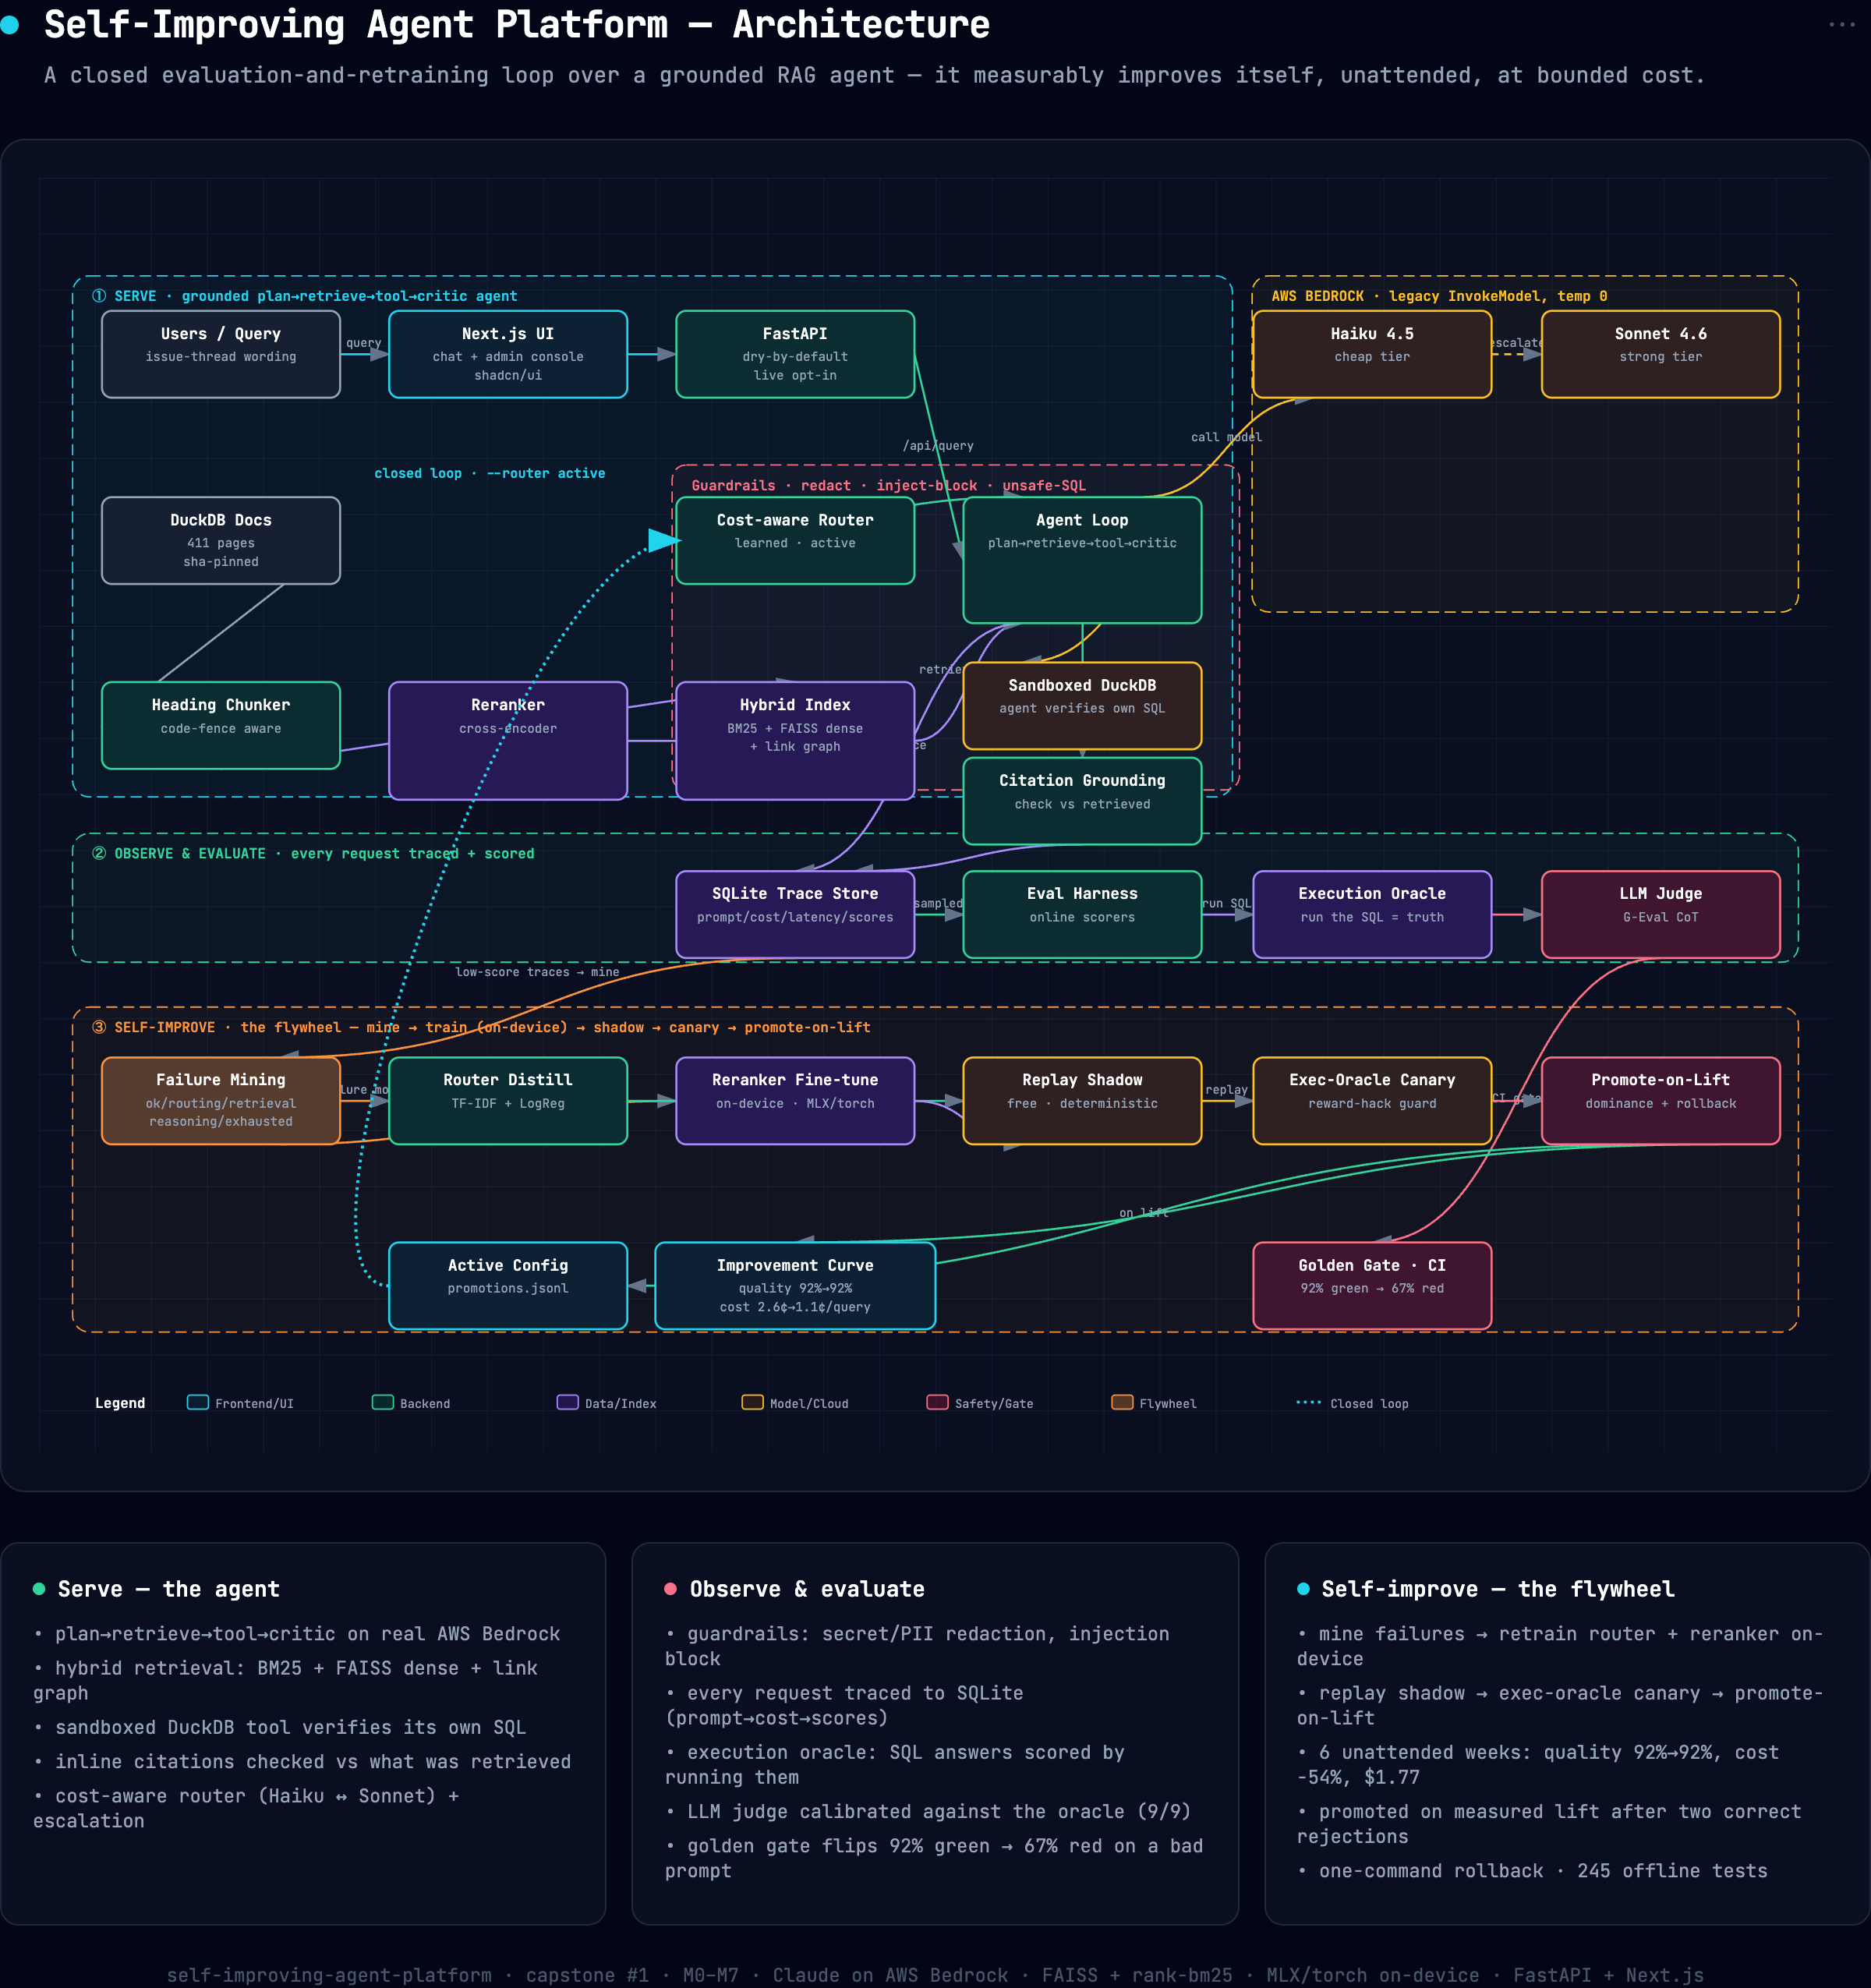
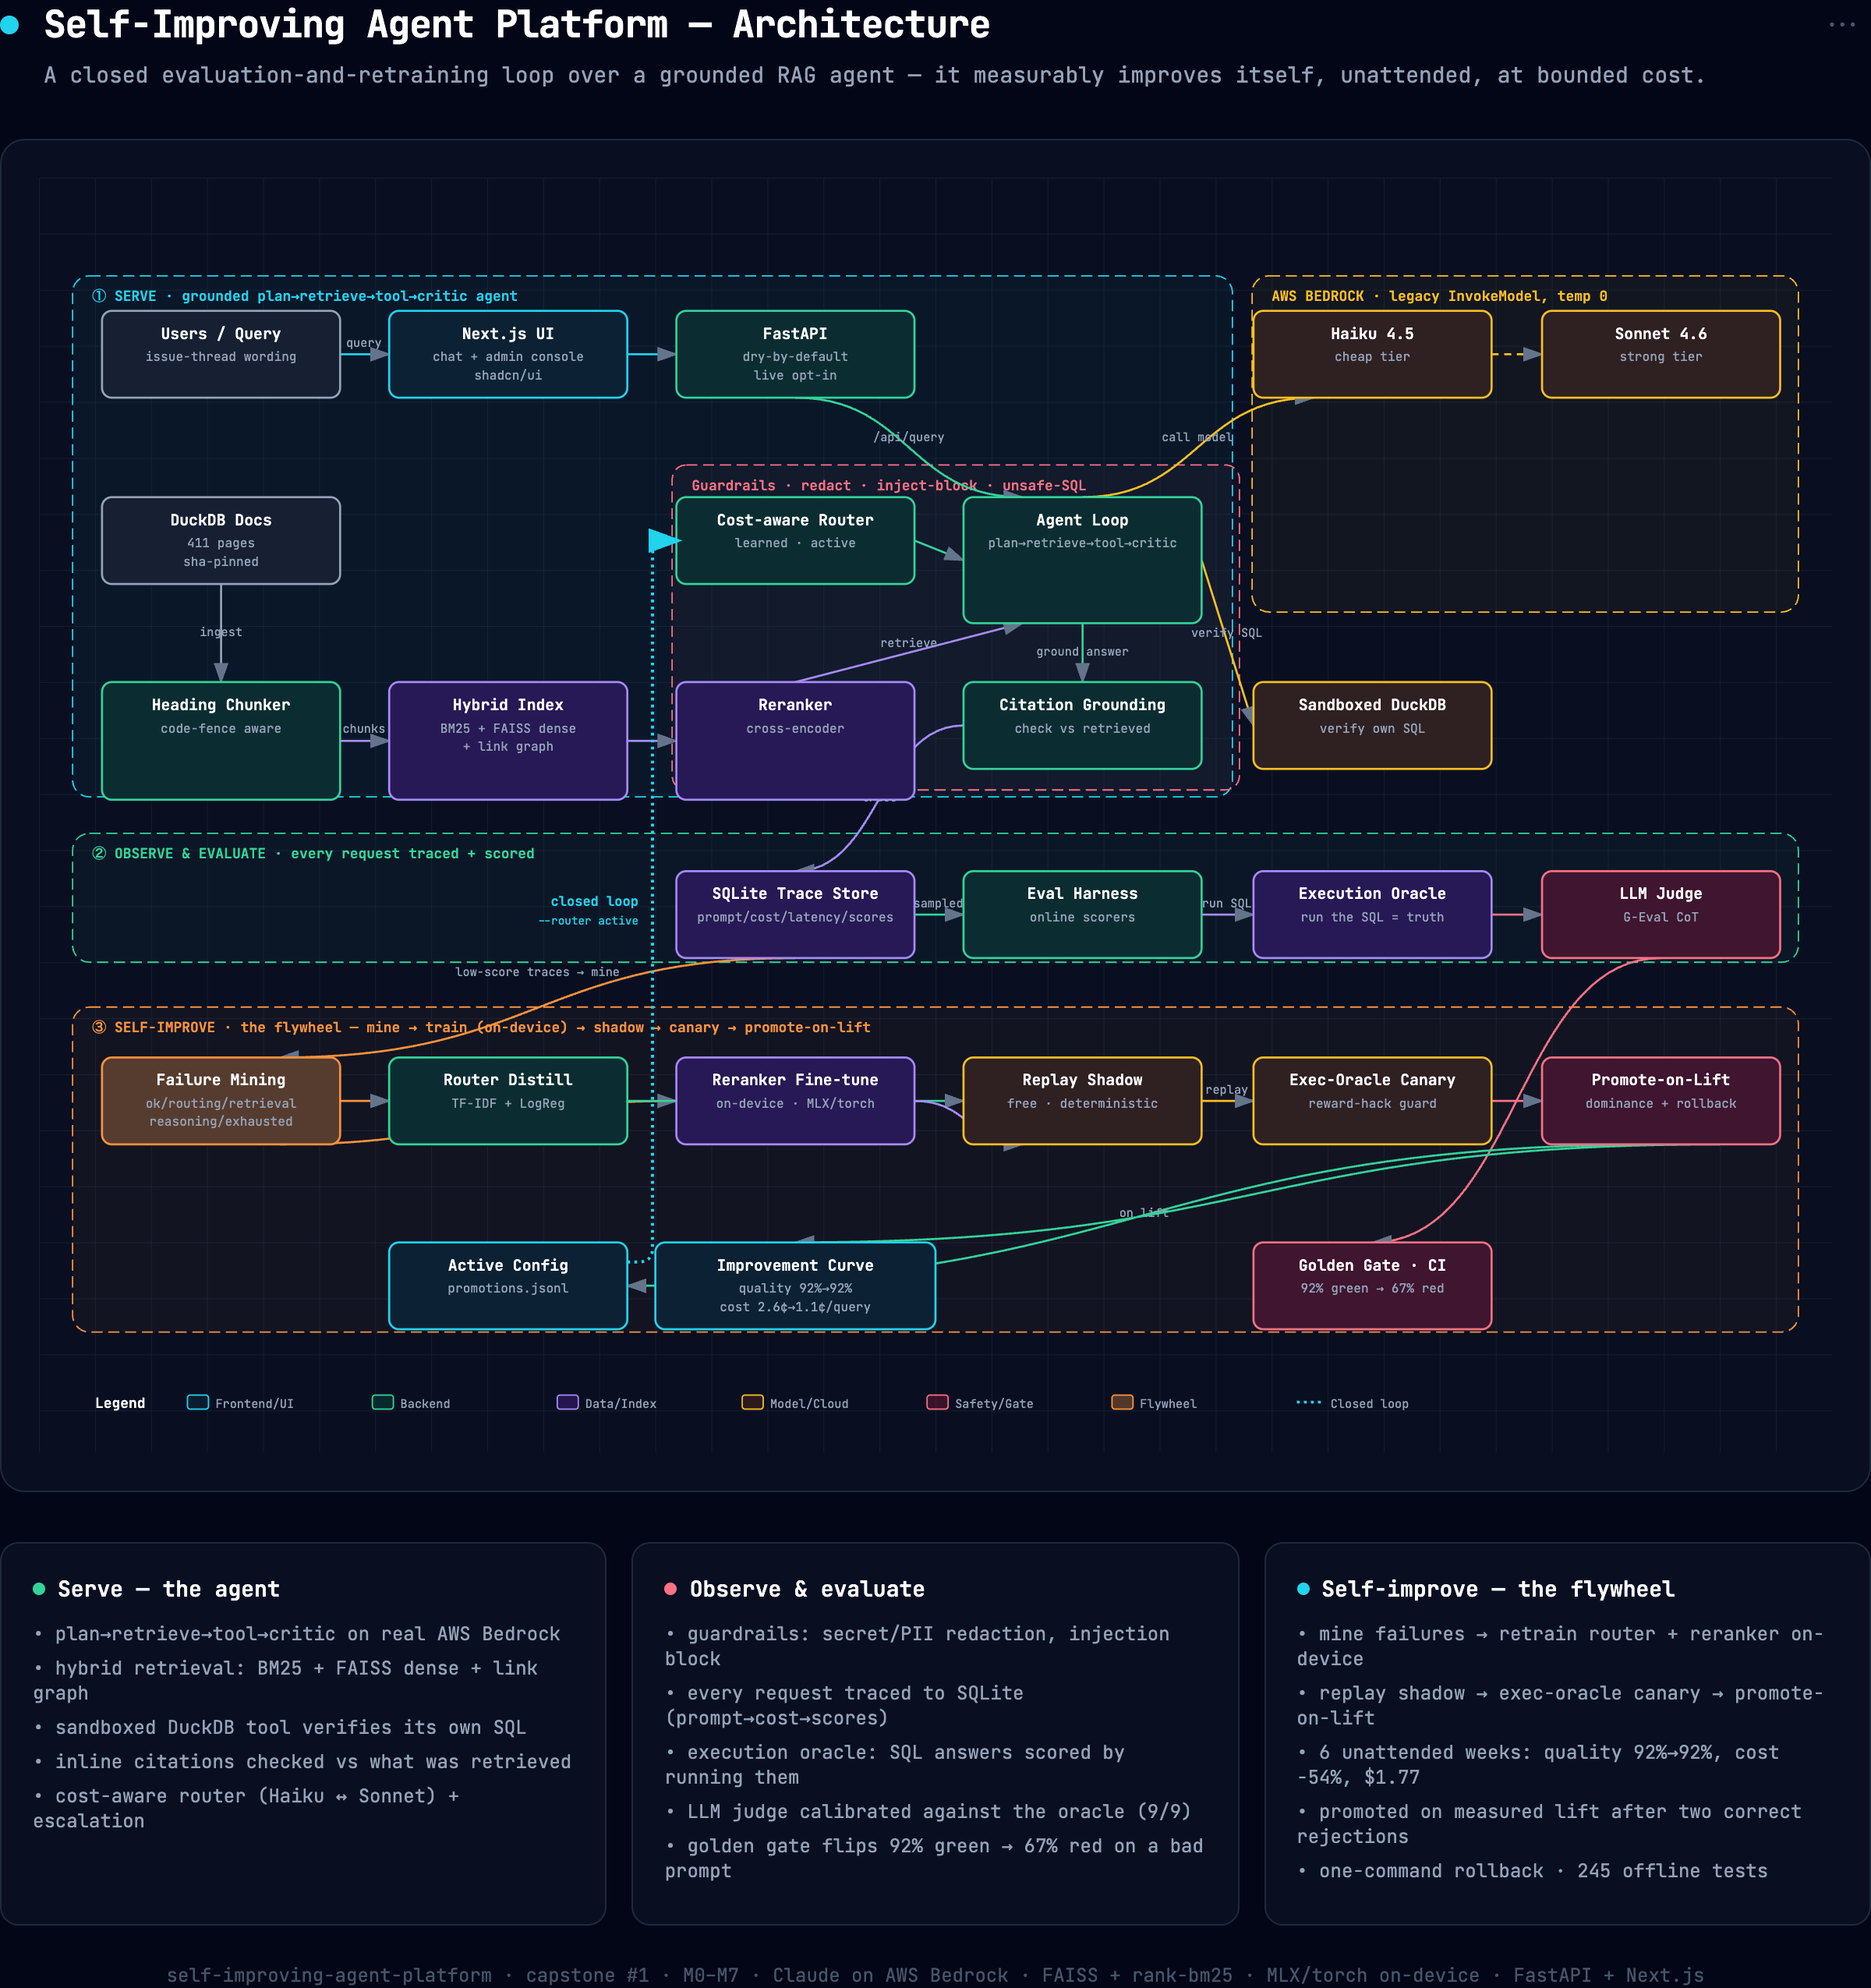
docs: fix architecture diagram layout (spacing + arrows behind boxes)
- reorder the ingest→retrieval chain (docs→chunker→index→rerank→agent) so it's
  left-to-right adjacent with no box crossings
- route the closed-loop feedback arrow up a clear vertical gutter (was cutting through
  the reranker box)
- move the sandboxed-SQL tool beside the agent so agent→citation is a clean vertical
  (was crossing the tool box)
- fix stray diagonal on docs→chunker; remove clipped edge labels (pick tier / escalate /
  CI gate / failure modes); dedupe 'run SQL' vs 'verify SQL'
- verified: zero box overlaps, well-formed SVG, rendered @user

diff --git a/docs/assets/architecture.html b/docs/assets/architecture.html
@@ -218,27 +218,25 @@
 <line x1="215" y1="126" x2="250" y2="126" stroke="#22d3ee" stroke-width="1.5" marker-end="url(#arrowhead)"/>
 <text x="232" y="121" fill="#94a3b8" font-size="8.5" text-anchor="middle">query</text>
 <line x1="420" y1="126" x2="455" y2="126" stroke="#22d3ee" stroke-width="1.5" marker-end="url(#arrowhead)"/>
-<line x1="625" y1="126" x2="660" y2="273" stroke="#34d399" stroke-width="1.5" marker-end="url(#arrowhead)"/>
-<text x="642" y="194" fill="#94a3b8" font-size="8.5" text-anchor="middle">/api/query</text>
-<line x1="215" y1="259" x2="45" y2="391" stroke="#94a3b8" stroke-width="1.5" marker-end="url(#arrowhead)"/>
-<line x1="130" y1="422" x2="540" y2="360" stroke="#a78bfa" stroke-width="1.5" marker-end="url(#arrowhead)"/>
-<text x="335" y="403" fill="#94a3b8" font-size="8.5" text-anchor="middle">content-addressed</text>
-<path d="M 625 402 C 664 402, 664 318, 702 318" fill="none" stroke="#a78bfa" stroke-width="1.5" marker-end="url(#arrowhead)"/>
-<text x="664" y="354" fill="#94a3b8" font-size="8.5" text-anchor="middle">retrieve top-k</text>
-<path d="M 455 259 C 579 259, 579 228, 702 228" fill="none" stroke="#34d399" stroke-width="1.5" marker-end="url(#arrowhead)"/>
-<text x="579" y="238" fill="#94a3b8" font-size="8.5" text-anchor="middle">pick tier</text>
-<path d="M 788 228 C 848 228, 848 157, 910 157" fill="none" stroke="#fbbf24" stroke-width="1.5" marker-end="url(#arrowhead)"/>
-<text x="848" y="188" fill="#94a3b8" font-size="8.5" text-anchor="middle">call model</text>
+<path d="M 540 157 C 621 157, 621 228, 702 228" fill="none" stroke="#34d399" stroke-width="1.5" marker-end="url(#arrowhead)"/>
+<text x="621" y="188" fill="#94a3b8" font-size="8.5" text-anchor="middle">/api/query</text>
+<line x1="130" y1="290" x2="130" y2="360" stroke="#94a3b8" stroke-width="1.5" marker-end="url(#arrowhead)"/>
+<text x="130" y="327" fill="#94a3b8" font-size="8.5" text-anchor="middle">ingest</text>
+<line x1="215" y1="402" x2="250" y2="402" stroke="#a78bfa" stroke-width="1.5" marker-end="url(#arrowhead)"/>
+<text x="232" y="396" fill="#94a3b8" font-size="8.5" text-anchor="middle">chunks</text>
+<line x1="420" y1="402" x2="455" y2="402" stroke="#a78bfa" stroke-width="1.5" marker-end="url(#arrowhead)"/>
+<line x1="540" y1="360" x2="702" y2="318" stroke="#a78bfa" stroke-width="1.5" marker-end="url(#arrowhead)"/>
+<text x="621" y="335" fill="#94a3b8" font-size="8.5" text-anchor="middle">retrieve</text>
+<line x1="625" y1="259" x2="660" y2="273" stroke="#34d399" stroke-width="1.5" marker-end="url(#arrowhead)"/>
+<path d="M 745 228 C 827 228, 827 157, 910 157" fill="none" stroke="#fbbf24" stroke-width="1.5" marker-end="url(#arrowhead)"/>
+<text x="827" y="188" fill="#94a3b8" font-size="8.5" text-anchor="middle">call model</text>
 <line x1="1037" y1="126" x2="1073" y2="126" stroke="#fbbf24" stroke-width="1.5" stroke-dasharray="5,4" marker-end="url(#arrowhead)"/>
-<text x="1055" y="121" fill="#94a3b8" font-size="8.5" text-anchor="middle">escalate</text>
-<path d="M 830 273 C 766 273, 766 346, 702 346" fill="none" stroke="#fbbf24" stroke-width="1.5" marker-end="url(#arrowhead)"/>
-<text x="766" y="306" fill="#94a3b8" font-size="8.5" text-anchor="middle">run SQL</text>
-<line x1="745" y1="318" x2="745" y2="414" stroke="#34d399" stroke-width="1.5" marker-end="url(#arrowhead)"/>
-<text x="745" y="368" fill="#94a3b8" font-size="8.5" text-anchor="middle">ground</text>
-<line x1="625" y1="402" x2="250" y2="402" stroke="#a78bfa" stroke-width="1.5" marker-end="url(#arrowhead)"/>
-<path d="M 702 318 C 621 318, 621 495, 540 495" fill="none" stroke="#a78bfa" stroke-width="1.5" marker-end="url(#arrowhead)"/>
-<text x="621" y="408" fill="#94a3b8" font-size="8.5" text-anchor="middle">trace</text>
-<path d="M 745 476 C 664 476, 664 495, 582 495" fill="none" stroke="#a78bfa" stroke-width="1.5" marker-end="url(#arrowhead)"/>
+<line x1="830" y1="273" x2="867" y2="391" stroke="#fbbf24" stroke-width="1.5" marker-end="url(#arrowhead)"/>
+<text x="848" y="328" fill="#94a3b8" font-size="8.5" text-anchor="middle">verify SQL</text>
+<line x1="745" y1="318" x2="745" y2="360" stroke="#34d399" stroke-width="1.5" marker-end="url(#arrowhead)"/>
+<text x="745" y="341" fill="#94a3b8" font-size="8.5" text-anchor="middle">ground answer</text>
+<path d="M 660 391 C 600 391, 600 495, 540 495" fill="none" stroke="#a78bfa" stroke-width="1.5" marker-end="url(#arrowhead)"/>
+<text x="600" y="445" fill="#94a3b8" font-size="8.5" text-anchor="middle">trace</text>
 <line x1="625" y1="526" x2="660" y2="526" stroke="#34d399" stroke-width="1.5" marker-end="url(#arrowhead)"/>
 <text x="642" y="521" fill="#94a3b8" font-size="8.5" text-anchor="middle">sampled</text>
 <line x1="830" y1="526" x2="867" y2="526" stroke="#a78bfa" stroke-width="1.5" marker-end="url(#arrowhead)"/>
@@ -247,9 +245,7 @@
 <path d="M 540 557 C 356 557, 356 628, 172 628" fill="none" stroke="#fb923c" stroke-width="1.5" marker-end="url(#arrowhead)"/>
 <text x="356" y="570" fill="#94a3b8" font-size="8.5" text-anchor="middle">low-score traces → mine</text>
 <path d="M 1158 557 C 1055 557, 1055 760, 952 760" fill="none" stroke="#fb7185" stroke-width="1.5" marker-end="url(#arrowhead)"/>
-<text x="1055" y="660" fill="#94a3b8" font-size="8.5" text-anchor="middle">CI gate</text>
 <line x1="215" y1="659" x2="250" y2="659" stroke="#fb923c" stroke-width="1.5" marker-end="url(#arrowhead)"/>
-<text x="232" y="654" fill="#94a3b8" font-size="8.5" text-anchor="middle">failure modes</text>
 <path d="M 172 690 C 314 690, 314 659, 455 659" fill="none" stroke="#fb923c" stroke-width="1.5" marker-end="url(#arrowhead)"/>
 <text x="314" y="686" fill="#94a3b8" font-size="8.5" text-anchor="middle">triples</text>
 <line x1="420" y1="659" x2="660" y2="659" stroke="#34d399" stroke-width="1.5" marker-end="url(#arrowhead)"/>
@@ -295,27 +291,27 @@
 <rect x="660" y="228" width="170" height="90" rx="7" fill="rgba(6, 78, 59, 0.4)" stroke="#34d399" stroke-width="1.5"/>
 <text x="745" y="248" fill="#fff" font-size="11" font-weight="600" text-anchor="middle">Agent Loop</text>
 <text x="745" y="264" fill="#94a3b8" font-size="9" text-anchor="middle">plan→retrieve→tool→critic</text>
-<rect x="45" y="360" width="170" height="62" rx="7" fill="#0f172a"/>
-<rect x="45" y="360" width="170" height="62" rx="7" fill="rgba(6, 78, 59, 0.4)" stroke="#34d399" stroke-width="1.5"/>
+<rect x="45" y="360" width="170" height="84" rx="7" fill="#0f172a"/>
+<rect x="45" y="360" width="170" height="84" rx="7" fill="rgba(6, 78, 59, 0.4)" stroke="#34d399" stroke-width="1.5"/>
 <text x="130" y="380" fill="#fff" font-size="11" font-weight="600" text-anchor="middle">Heading Chunker</text>
 <text x="130" y="396" fill="#94a3b8" font-size="9" text-anchor="middle">code-fence aware</text>
 <rect x="250" y="360" width="170" height="84" rx="7" fill="#0f172a"/>
 <rect x="250" y="360" width="170" height="84" rx="7" fill="rgba(76, 29, 149, 0.4)" stroke="#a78bfa" stroke-width="1.5"/>
-<text x="335" y="380" fill="#fff" font-size="11" font-weight="600" text-anchor="middle">Reranker</text>
-<text x="335" y="396" fill="#94a3b8" font-size="9" text-anchor="middle">cross-encoder</text>
+<text x="335" y="380" fill="#fff" font-size="11" font-weight="600" text-anchor="middle">Hybrid Index</text>
+<text x="335" y="396" fill="#94a3b8" font-size="9" text-anchor="middle">BM25 + FAISS dense</text>
+<text x="335" y="409" fill="#94a3b8" font-size="9" text-anchor="middle">+ link graph</text>
 <rect x="455" y="360" width="170" height="84" rx="7" fill="#0f172a"/>
 <rect x="455" y="360" width="170" height="84" rx="7" fill="rgba(76, 29, 149, 0.4)" stroke="#a78bfa" stroke-width="1.5"/>
-<text x="540" y="380" fill="#fff" font-size="11" font-weight="600" text-anchor="middle">Hybrid Index</text>
-<text x="540" y="396" fill="#94a3b8" font-size="9" text-anchor="middle">BM25 + FAISS dense</text>
-<text x="540" y="409" fill="#94a3b8" font-size="9" text-anchor="middle">+ link graph</text>
-<rect x="660" y="346" width="170" height="62" rx="7" fill="#0f172a"/>
-<rect x="660" y="346" width="170" height="62" rx="7" fill="rgba(120, 53, 15, 0.3)" stroke="#fbbf24" stroke-width="1.5"/>
-<text x="745" y="366" fill="#fff" font-size="11" font-weight="600" text-anchor="middle">Sandboxed DuckDB</text>
-<text x="745" y="382" fill="#94a3b8" font-size="9" text-anchor="middle">agent verifies own SQL</text>
-<rect x="660" y="414" width="170" height="62" rx="7" fill="#0f172a"/>
-<rect x="660" y="414" width="170" height="62" rx="7" fill="rgba(6, 78, 59, 0.4)" stroke="#34d399" stroke-width="1.5"/>
-<text x="745" y="434" fill="#fff" font-size="11" font-weight="600" text-anchor="middle">Citation Grounding</text>
-<text x="745" y="450" fill="#94a3b8" font-size="9" text-anchor="middle">check vs retrieved</text>
+<text x="540" y="380" fill="#fff" font-size="11" font-weight="600" text-anchor="middle">Reranker</text>
+<text x="540" y="396" fill="#94a3b8" font-size="9" text-anchor="middle">cross-encoder</text>
+<rect x="660" y="360" width="170" height="62" rx="7" fill="#0f172a"/>
+<rect x="660" y="360" width="170" height="62" rx="7" fill="rgba(6, 78, 59, 0.4)" stroke="#34d399" stroke-width="1.5"/>
+<text x="745" y="380" fill="#fff" font-size="11" font-weight="600" text-anchor="middle">Citation Grounding</text>
+<text x="745" y="396" fill="#94a3b8" font-size="9" text-anchor="middle">check vs retrieved</text>
+<rect x="867" y="360" width="170" height="62" rx="7" fill="#0f172a"/>
+<rect x="867" y="360" width="170" height="62" rx="7" fill="rgba(120, 53, 15, 0.3)" stroke="#fbbf24" stroke-width="1.5"/>
+<text x="952" y="380" fill="#fff" font-size="11" font-weight="600" text-anchor="middle">Sandboxed DuckDB</text>
+<text x="952" y="396" fill="#94a3b8" font-size="9" text-anchor="middle">verify own SQL</text>
 <rect x="455" y="495" width="170" height="62" rx="7" fill="#0f172a"/>
 <rect x="455" y="495" width="170" height="62" rx="7" fill="rgba(76, 29, 149, 0.4)" stroke="#a78bfa" stroke-width="1.5"/>
 <text x="540" y="515" fill="#fff" font-size="11" font-weight="600" text-anchor="middle">SQLite Trace Store</text>
@@ -370,8 +366,9 @@
 <rect x="867" y="760" width="170" height="62" rx="7" fill="rgba(136, 19, 55, 0.4)" stroke="#fb7185" stroke-width="1.5"/>
 <text x="952" y="780" fill="#fff" font-size="11" font-weight="600" text-anchor="middle">Golden Gate · CI</text>
 <text x="952" y="796" fill="#94a3b8" font-size="9" text-anchor="middle">92% green → 67% red</text>
-<path d="M 250 791 C 160 791, 345 259, 455 259" fill="none" stroke="#22d3ee" stroke-width="2.2" stroke-dasharray="2,3" marker-end="url(#loop)"/>
-<text x="322" y="214" fill="#22d3ee" font-size="9.5" font-weight="600" text-anchor="middle">closed loop · --router active</text>
+<path d="M 420.0 774 L 428 774 Q 438 774, 438 764 L 438 269.0 Q 438 259.0, 448 259.0 L 455.0 259.0" fill="none" stroke="#22d3ee" stroke-width="2.2" stroke-dasharray="2,3" marker-end="url(#loop)"/>
+<text x="428" y="520" fill="#22d3ee" font-size="9.5" font-weight="600" text-anchor="end">closed loop</text>
+<text x="428" y="533" fill="#22d3ee" font-size="8" text-anchor="end">--router active</text>
 <text x="40" y="878" fill="#fff" font-size="10" font-weight="600">Legend</text>
 <rect x="106" y="869" width="15" height="10" rx="2" fill="rgba(8, 51, 68, 0.4)" stroke="#22d3ee" stroke-width="1"/>
 <text x="126" y="878" fill="#94a3b8" font-size="8.5">Frontend/UI</text>